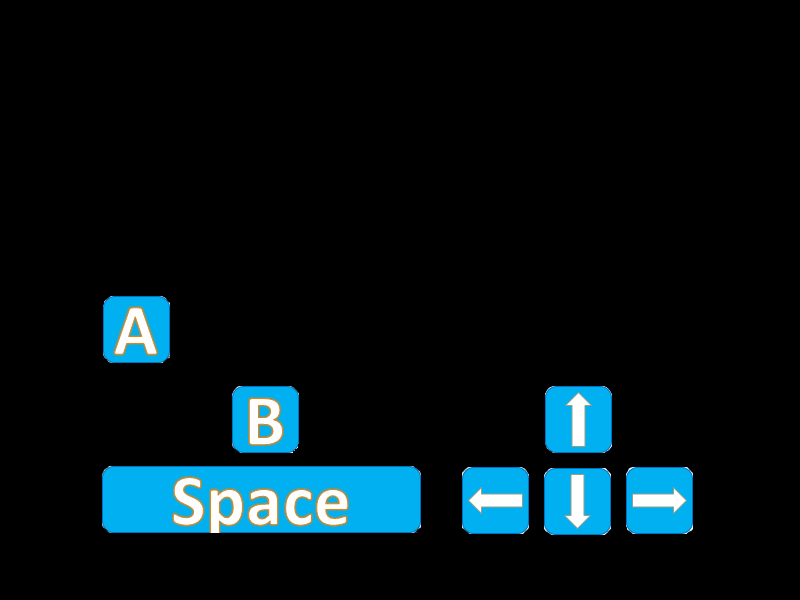
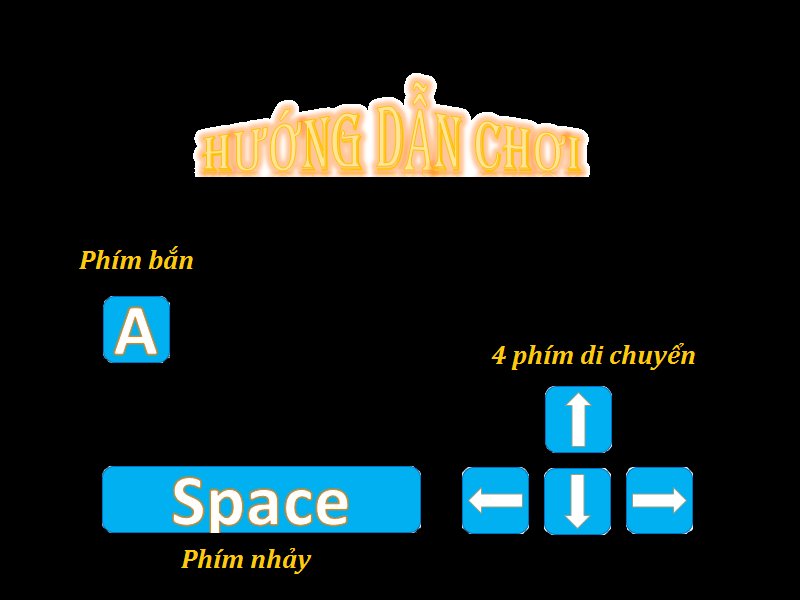
about state

diff --git a/Game_Mario/Mario.cpp b/Game_Mario/Mario.cpp
@@ -38,7 +38,7 @@ void CMario::Init()
 	velocity = D3DXVECTOR2(0.0f, - 200);
 	accel = D3DXVECTOR2(0, - 100);
 	prePosition = D3DXVECTOR2(0.0f, 0.0f);
-	backupPosition = position;
+	
 	posMasat = D3DXVECTOR2(5.0f, 0.0f);
 	deltaPosition = 0.0f;
 	masat = posMasat.x;
@@ -46,6 +46,8 @@ void CMario::Init()
 	shoot = false;
 	timerShoot = 0.0f;
 	this->isWin = false;
+
+	this->Backup();
 }
 
 void CMario::Render()
@@ -393,6 +395,12 @@ void CMario::UpdateAnimation(float delta_time)
 	}
 }
 
+void CMario::Backup()
+{
+	this->backupPosition = position;
+	this->backupSprite = this->sprite;
+}
+
 void CMario::Reset()
 {
 	direction = 1;
@@ -405,6 +413,11 @@ void CMario::Reset()
 void CMario::Resume()
 {
 	position = backupPosition;
+	flagPosition = position;
+	this->sprite = backupSprite;
+	timer.x = 0;
+	timer.y = 0;
+	isDead = false;
 }
 
 void CMario::changeMario(CSprite* mario, float number)
@@ -559,7 +572,7 @@ void CMario::CheckCollision(CBox mario, float delta_time)
 			case PIPE_LEFT_1:
 			case PIPE_LEFT_2:
 			{
-				backupPosition = position;
+				this->Backup();
 				if (normalx == -1.0f && normaly == 0.0f || normalx == 1.0f && normaly == 0.0f)
 				{
 					m_collisionX = true;
@@ -579,13 +592,13 @@ void CMario::CheckCollision(CBox mario, float delta_time)
 			break;
 			case STONE:
 			{
-				backupPosition = position;
 				if (normalx == 0.0f && normaly == -1.0f)
 				{
 					this->droping();
 				}
 				if (normalx == 0.0f && normaly == 1.0f)
 				{
+					//this->Backup();
 					m_collisionY = true;
 					if (m_action == jump || m_action == drop)
 					{
@@ -679,7 +692,7 @@ void CMario::CheckCollision(CBox mario, float delta_time)
 				}
 				if (normalx == 0.0f && normaly == 1.0f)
 				{
-					backupPosition = position;
+					this->Backup();
 					m_collisionY = true;
 					if (m_action == jump || m_action == drop)
 					{
@@ -709,7 +722,7 @@ void CMario::CheckCollision(CBox mario, float delta_time)
 				}
 				if (normalx == 0.0f && normaly == 1.0f)
 				{
-					backupPosition = position;
+					this->Backup();
 					m_collisionY = true;
 					if (m_action == jump || m_action == drop)
 					{
@@ -750,7 +763,7 @@ void CMario::CheckCollision(CBox mario, float delta_time)
 				}
 				if (normalx == 0.0f && normaly == 1.0f)
 				{
-					backupPosition = position;
+					this->Backup();
 					m_collisionY = true;
 					if (m_action == jump || m_action == drop)
 					{

diff --git a/Game_Mario/GameOverState.cpp b/Game_Mario/GameOverState.cpp
@@ -9,6 +9,8 @@ CGameOverState::CGameOverState()
 
 CGameOverState::~CGameOverState()
 {
+	if (m_pNumbers)
+		delete m_pNumbers;
 }
 
 void CGameOverState::Init()
@@ -17,8 +19,11 @@ void CGameOverState::Init()
 	this->m_isGameOver = false;
 	this->m_timer = 0.0f;
 	this->LoadResource();
-	if(CScoreManagement::getInstance()->GetLife() >= 1)
-		m_Life = CScoreManagement::getInstance()->SubtractLife();
+	if (CScoreManagement::getInstance()->GetLife() >= 0)
+	{
+		CScoreManagement::getInstance()->SetLife(CScoreManagement::getInstance()->GetLife() - 1);
+		m_Life = CScoreManagement::getInstance()->GetLife();
+	}
 }
 
 void CGameOverState::LoadResource()
@@ -29,7 +34,7 @@ void CGameOverState::LoadResource()
 
 void CGameOverState::Update(float deltaTime)
 {
-	if (m_Life != 0)
+	if (m_Life > 0)
 	{
 		if (CGameKeyboard::getInstance()->IsKeyDown(DIK_SPACE))
 		{
@@ -57,13 +62,19 @@ void CGameOverState::Render()
 void CGameOverState::End()
 {
 	this->m_bFinished = true;
-	delete m_pNextState;
+	
 	if (m_Life == 0)
+	{
+		delete m_pNextState;
 		m_pNextState = new CMenuState();
+	}
+		
 	else
 	{
+
 		CMario::getInstance()->Resume();
-		m_pNextState = CPlayState::getInstance();
+		delete m_pNextState;
+		m_pNextState = new CPlayState();
 	}
 	CGameStateManager::getInstance()->ChangeState(m_pNextState);
 }

diff --git a/Game_Mario/AboutState.cpp b/Game_Mario/AboutState.cpp
@@ -1,0 +1,45 @@
+#include "AboutState.h"
+#include "GameGraphic.h"
+
+
+CAboutState::CAboutState()
+{
+	this->Init();
+}
+
+
+CAboutState::~CAboutState()
+{
+}
+
+void CAboutState::Init()
+{
+	this->m_bFinished = false;
+	this->LoadResource();
+}
+
+void CAboutState::LoadResource()
+{
+	CGameGraphic::getInstance()->InitSurface("Resources/Images/Other/AboutBackground.png");
+}
+
+void CAboutState::Update(float deltaTime)
+{
+	if (CGameKeyboard::getInstance()->IsKeyDown(DIK_ESCAPE))
+	{
+		this->End();
+	}
+}
+
+void CAboutState::Render()
+{
+	CGameGraphic::getInstance()->RenderBackbuffer(NULL, NULL);
+}
+
+void CAboutState::End()
+{
+	this->m_bFinished = true;
+	delete m_pNextState;
+	m_pNextState = new CMenuState();
+	CGameStateManager::getInstance()->ChangeState(m_pNextState);
+}

diff --git a/Game_Mario/GameStateManager.cpp b/Game_Mario/GameStateManager.cpp
@@ -8,10 +8,6 @@ CGameStateManager::~CGameStateManager()
 {
 	if (m_currentState)
 		delete m_currentState;
-	if (m_pNextState)
-		delete m_pNextState;
-	/*if (m_pResourceManager)
-		delete m_pResourceManager;*/
 }
 
 int CGameStateManager::Init(CBaseGameState* state)
@@ -23,8 +19,8 @@ int CGameStateManager::Init(CBaseGameState* state)
 
 CBaseGameState* CGameStateManager::GetCurrentState()
 {
-	if (m_currentState->m_bFinished)
-		m_currentState = new CMenuState;
+	/*if (m_currentState->m_bFinished)
+		m_currentState = new CMenuState;*/
 	return m_currentState;
 }
 

diff --git a/Game_Mario/PlayState.cpp b/Game_Mario/PlayState.cpp
@@ -13,8 +13,6 @@ CPlayState::~CPlayState()
 	if (CMario::getInstance()) delete CMario::getInstance();
 	if (CBinaryTree::getInstance()) delete CBinaryTree::getInstance();
 	if (CGameGraphic::getInstance()) delete CGameGraphic::getInstance();
-	if (sprMenu)
-		delete sprMenu;
 }
 
 void CPlayState::Init()
@@ -123,7 +121,7 @@ void CPlayState::Render()
 void CPlayState::End()
 {
 	//Khi state kết thúc m_bFinished = true
-	this->m_bFinished = true;
+	
 	//Xóa con trỏ m_pNextState
 	delete m_pNextState;
 	switch (m_status)

diff --git a/Game_Mario/GameStateManager.h b/Game_Mario/GameStateManager.h
@@ -10,11 +10,7 @@
 class CGameStateManager : public CSingleton<CGameStateManager>
 {
 private:
-
 	CBaseGameState* m_currentState;            //State hiện tại của game
-	
-											   //M?ng ch?a các State
-	CBaseGameState* m_state;
 public:
 	CGameStateManager();
 	~CGameStateManager();
@@ -24,6 +20,4 @@ public:
 	CBaseGameState* GetCurrentState();
 
 	void ChangeState(CBaseGameState* state);
-
-	CBaseGameState* m_pNextState;
 };

diff --git a/Game_Mario/Mario.h b/Game_Mario/Mario.h
@@ -41,7 +41,9 @@ private:
 	D3DXVECTOR2 flagAccel;
 	D3DXVECTOR2 posMasat;
 	ActionMario m_action;
+
 	D3DXVECTOR2 backupPosition;
+	CSprite* backupSprite;
 
 	CSprite* m_pSprBullet;
 	CBullet* m_pBullet;
@@ -56,6 +58,7 @@ private:
 	void CheckCollision(CBox mario, float delta_time);
 	void UpdatePosition(float delta_time);
 	void UpdateAnimation(float delta_time);
+	void Backup();
 public:
 	CSprite* smallMario;
 	CSprite* bigMario;

diff --git a/Game_Mario/ScoreManagement.cpp b/Game_Mario/ScoreManagement.cpp
@@ -18,16 +18,9 @@ void CScoreManagement::AddScore()
 	m_currentScore += SCORE;
 }
 
-int CScoreManagement::SubtractLife()
+void CScoreManagement::SetLife(int life)
 {
-	m_currentLife -= 1;
-	return m_currentLife;
-}
-
-int CScoreManagement::AddLife()
-{
-	m_currentLife += 1;
-	return m_currentLife;
+	m_currentLife = life;
 }
 
 int CScoreManagement::GetLife()

diff --git a/Game_Mario/AboutState.h b/Game_Mario/AboutState.h
@@ -1,0 +1,20 @@
+#pragma once
+#include "BaseGameState.h"
+#include "MenuState.h"
+#include "Sprite.h"
+#include "Camera.h"
+
+class CAboutState:public CBaseGameState
+{
+private:
+	CSprite* m_sprite;
+public:
+	CAboutState();
+	~CAboutState();
+	void Init();
+	void LoadResource();
+	void Update(float deltaTime);
+	void Render();
+	void End();
+};
+

diff --git a/Game_Mario/MenuState.cpp b/Game_Mario/MenuState.cpp
@@ -81,9 +81,17 @@ void CMenuState::End()
 	switch (m_indexMenu)
 	{
 	case 0:
+	{
 		CMario::getInstance()->Reset();
+		CScoreManagement::getInstance()->SetLife(LIFE);
 		m_pNextState = new CPlayState();
-		break;
+	}
+	break;
+	case 3:
+	{
+		m_pNextState = new CAboutState();
+	}
+	break;
 	case 4:
 		exit(0);
 		break;

diff --git a/Game_Mario/ScoreManagement.h b/Game_Mario/ScoreManagement.h
@@ -17,8 +17,7 @@ public:
 	void Update();
 	void Render();
 	void AddScore();
-	int SubtractLife();
-	int AddLife();
+	void SetLife(int life);
 	int GetLife();
 	void SetLevel(int level);
 	int GetLevel();

diff --git a/Game_Mario/PlayState.h b/Game_Mario/PlayState.h
@@ -15,7 +15,6 @@
 class CPlayState : public CBaseGameState, public CSingleton<CPlayState>
 {
 private:
-	CSprite* sprMenu;
 	int m_status;
 	int m_id_map;
 public:
